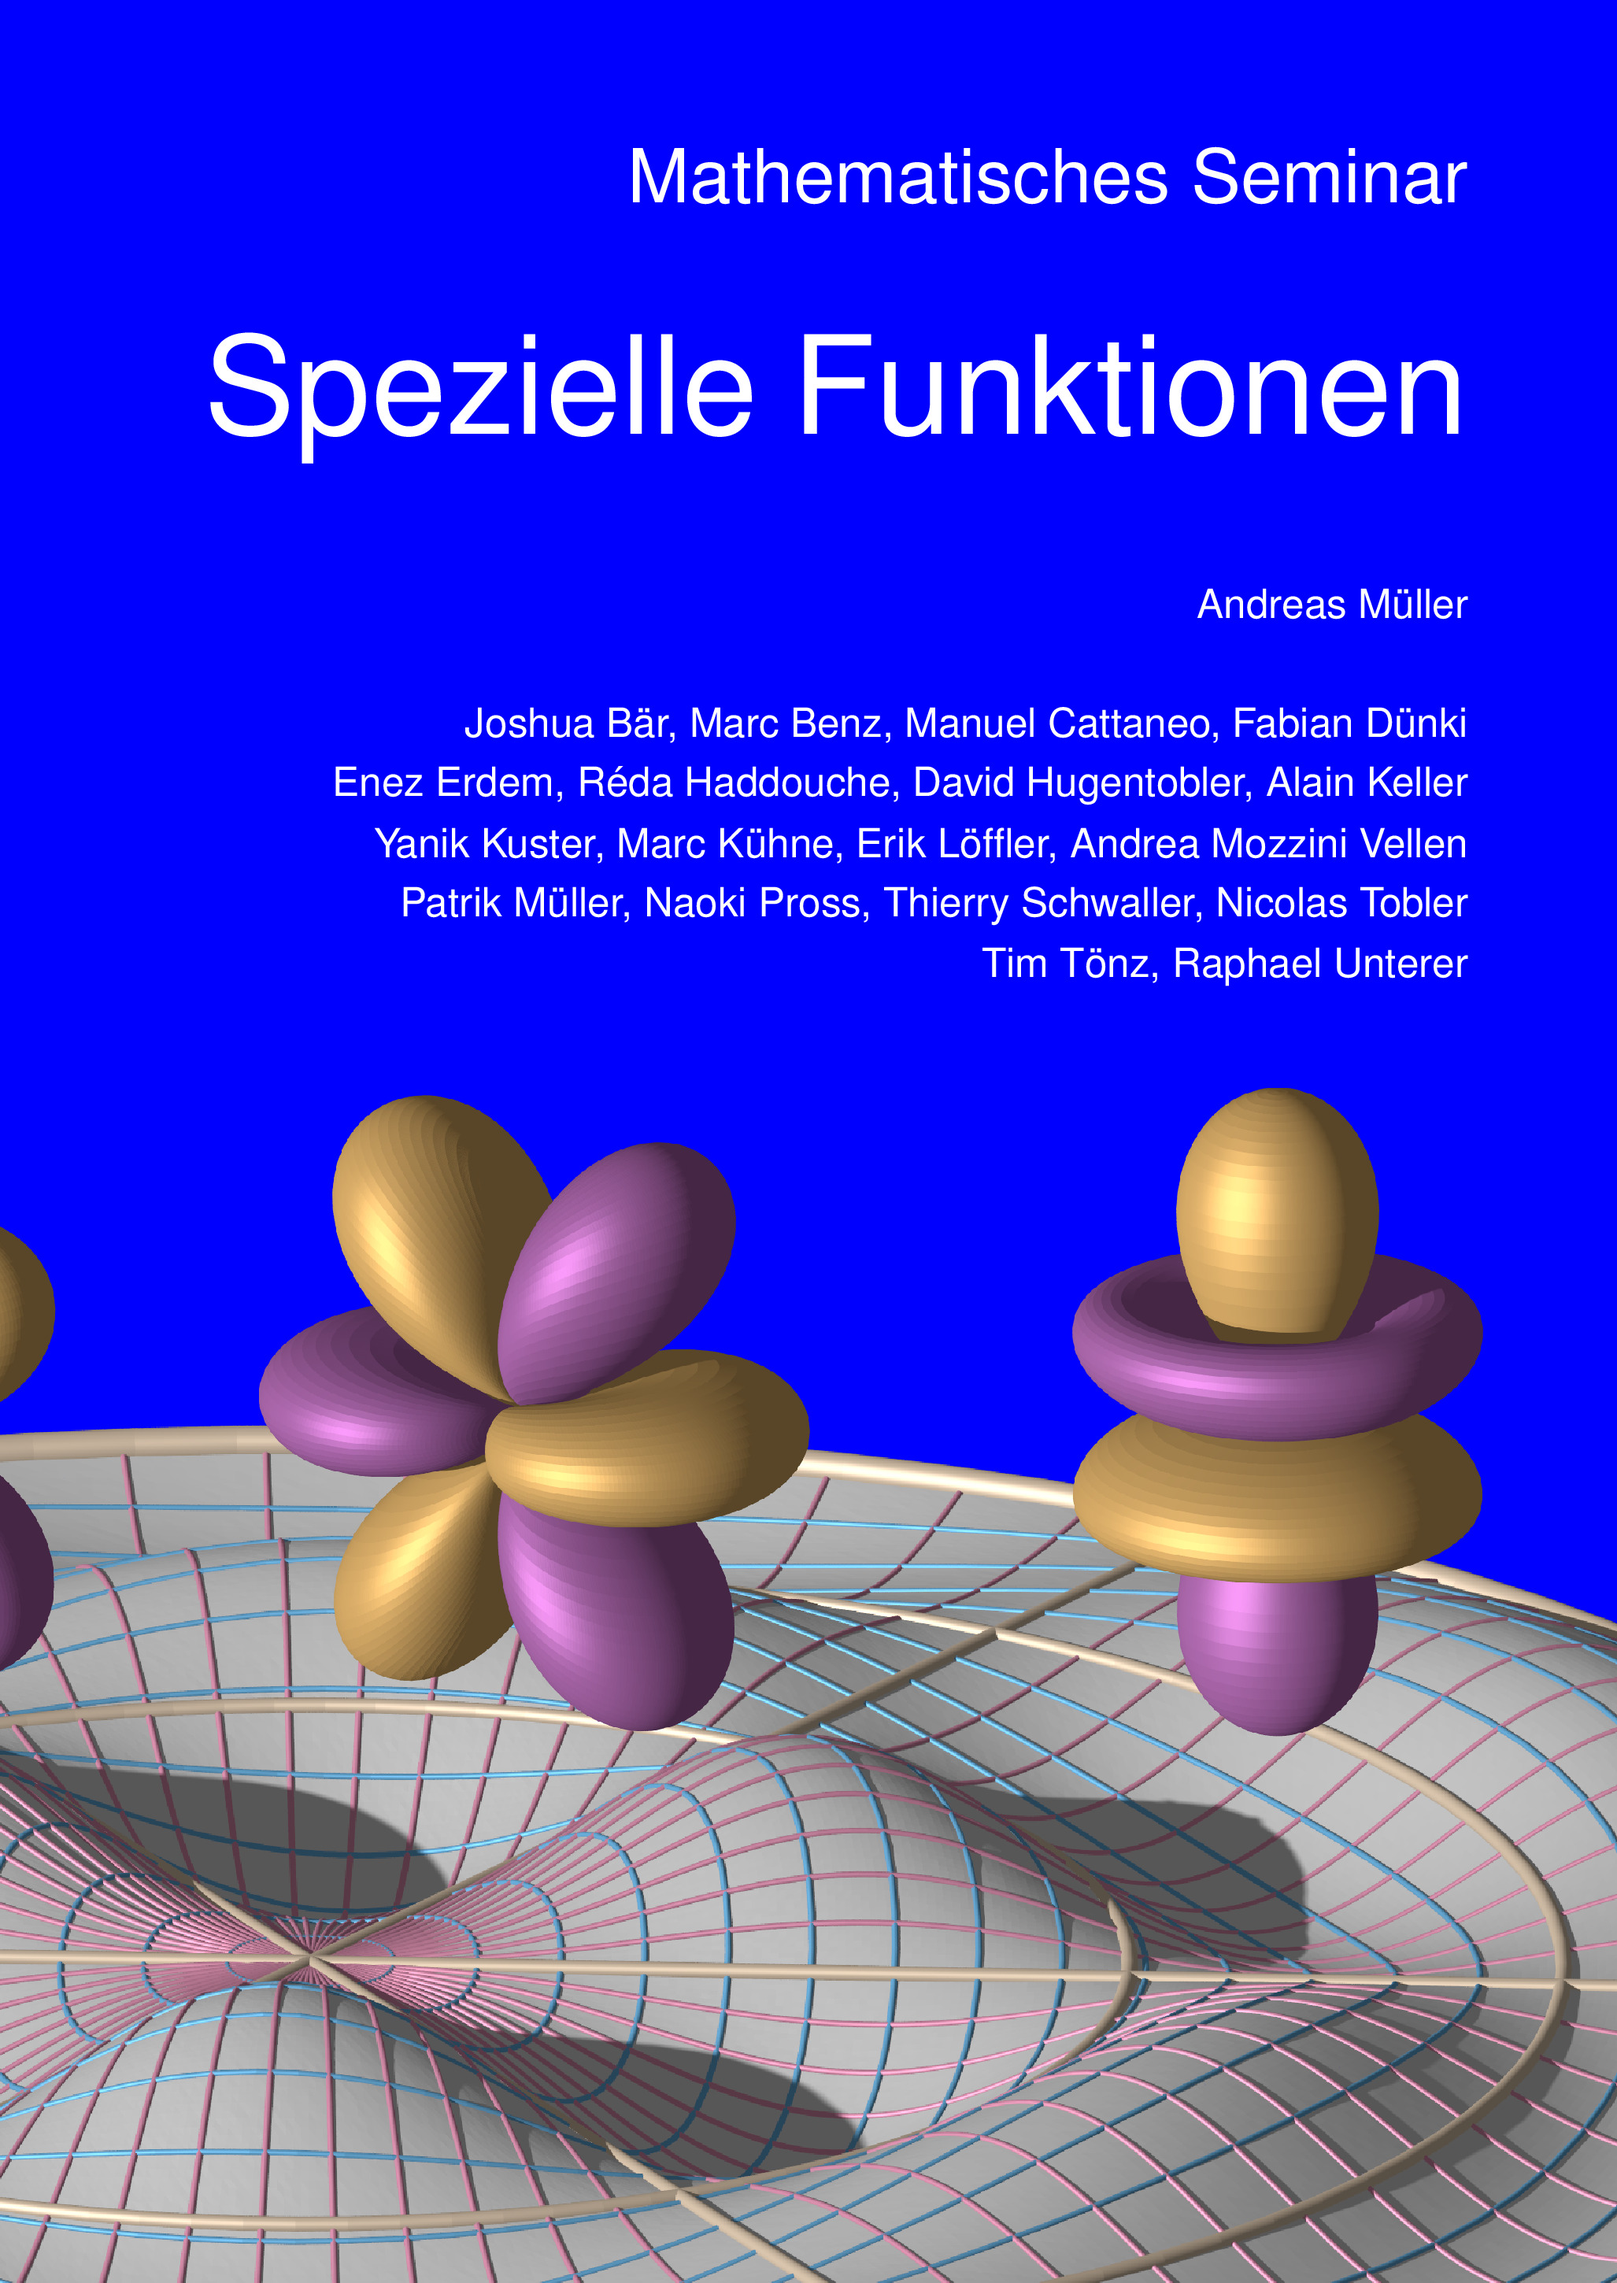
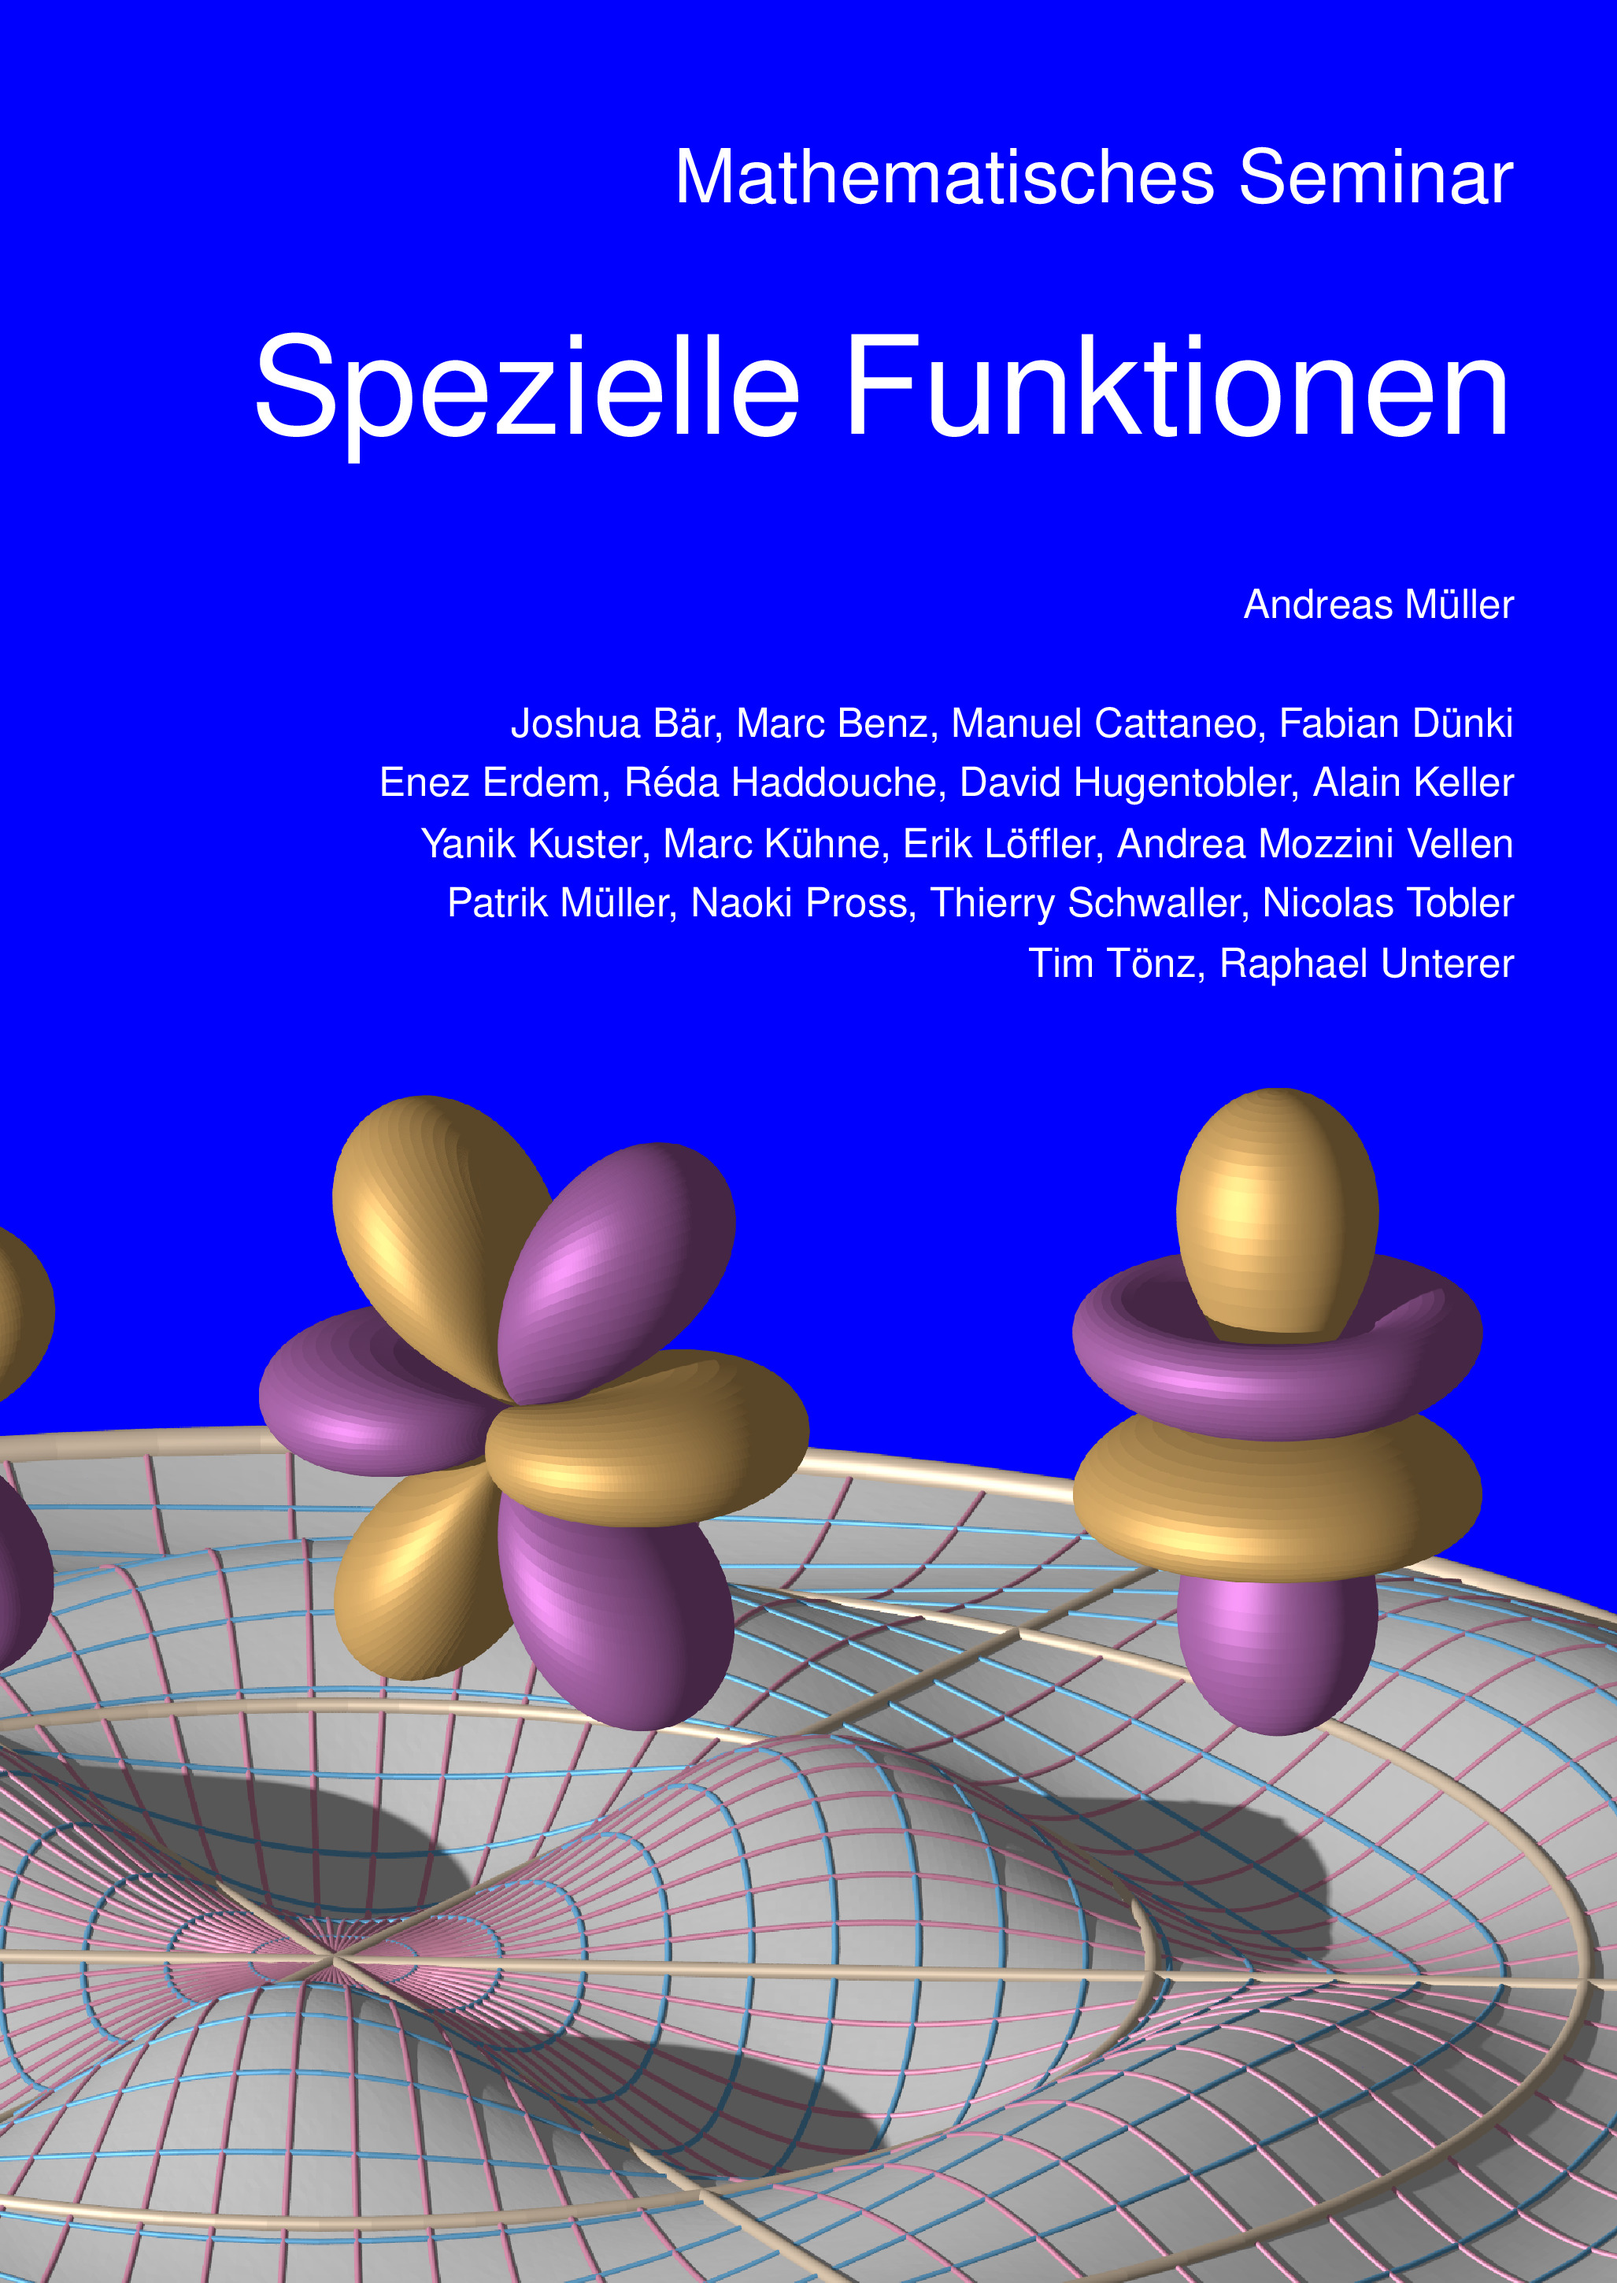
dots

diff --git a/cover/buchcover.tex b/cover/buchcover.tex
@@ -18,7 +18,7 @@
 \usepackage{ifthen}
 \usepackage{qrcode}
 \usetikzlibrary{math}
-\geometry{papersize={402mm,278mm},total={405mm,278mm},top=72.27pt, bottom=0pt, left=72.27pt, right=0pt}
+\geometry{papersize={417mm,278mm},total={417mm,278mm},top=72.27pt, bottom=0pt, left=72.27pt, right=0pt}
 \newboolean{guidelines}
 \setboolean{guidelines}{true}
 \setboolean{guidelines}{false}
@@ -27,7 +27,7 @@
 \begin{tikzpicture}[>=latex, scale=1]
 \tikzmath{
 	real \ruecken, \einschlag, \gelenk, \breite, \hoehe;
-	\ruecken = 3.0;
+	\ruecken = 3.5;
 	\einschlag = 1.6;
 	\gelenk = 0.8;
 	\breite = 16.7;

diff --git a/buch/chapters/010-potenzen/5-potenzreihen.tex b/buch/chapters/010-potenzen/5-potenzreihen.tex
@@ -394,11 +394,11 @@ Die Ableitungen der Potenzfunktion $(z-z_0)^n$ sind nacheinander
 \\
 \frac{d^3}{dz^3}(z-z_O)^n&=n(n-1)(n-2)(z-z_0)^{n-3},
 \\
-&\vdots
+&\hspace*{2mm}\vdots
 \\
 \frac{d^k}{dz^k}(z-z_0)^n&=n(n-1)(n-2)\dots(n-k+1)(z-z_0)^{n-k},
 \\
-&\vdots
+&\hspace*{2mm}\vdots
 \\
 \frac{d^n}{dz^n}(z-z_0)^n&=n!,
 \\
